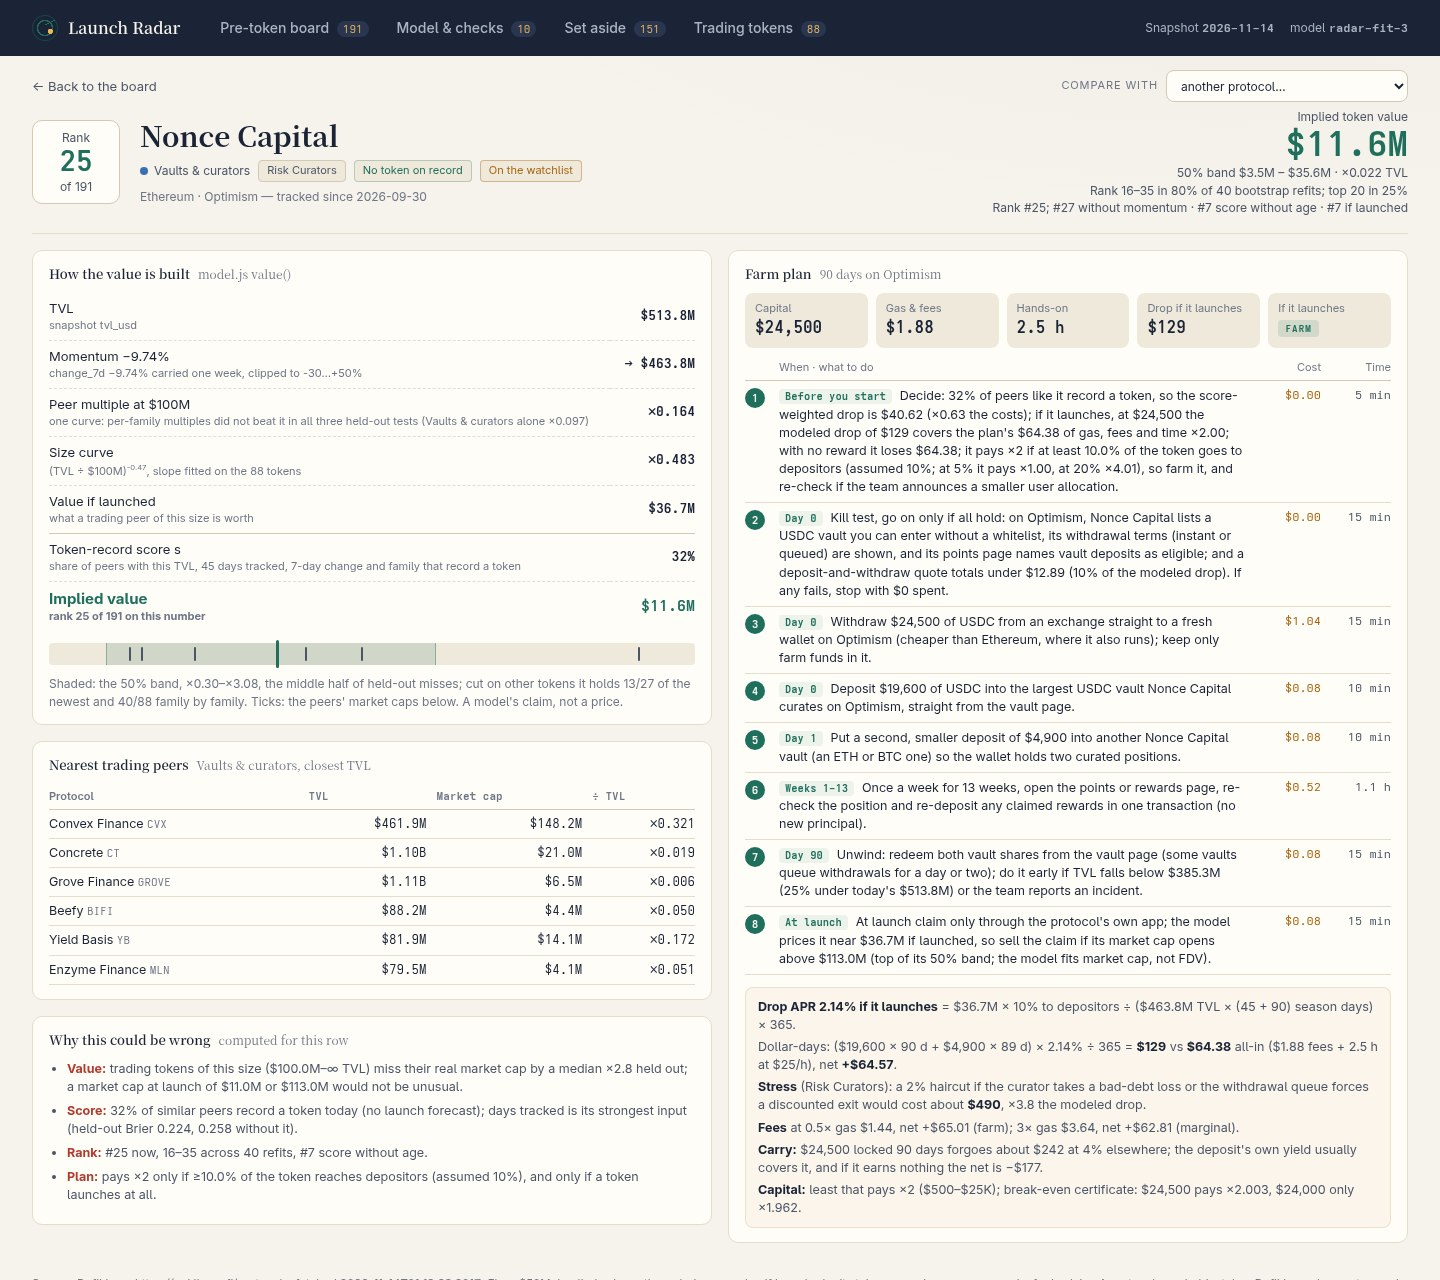
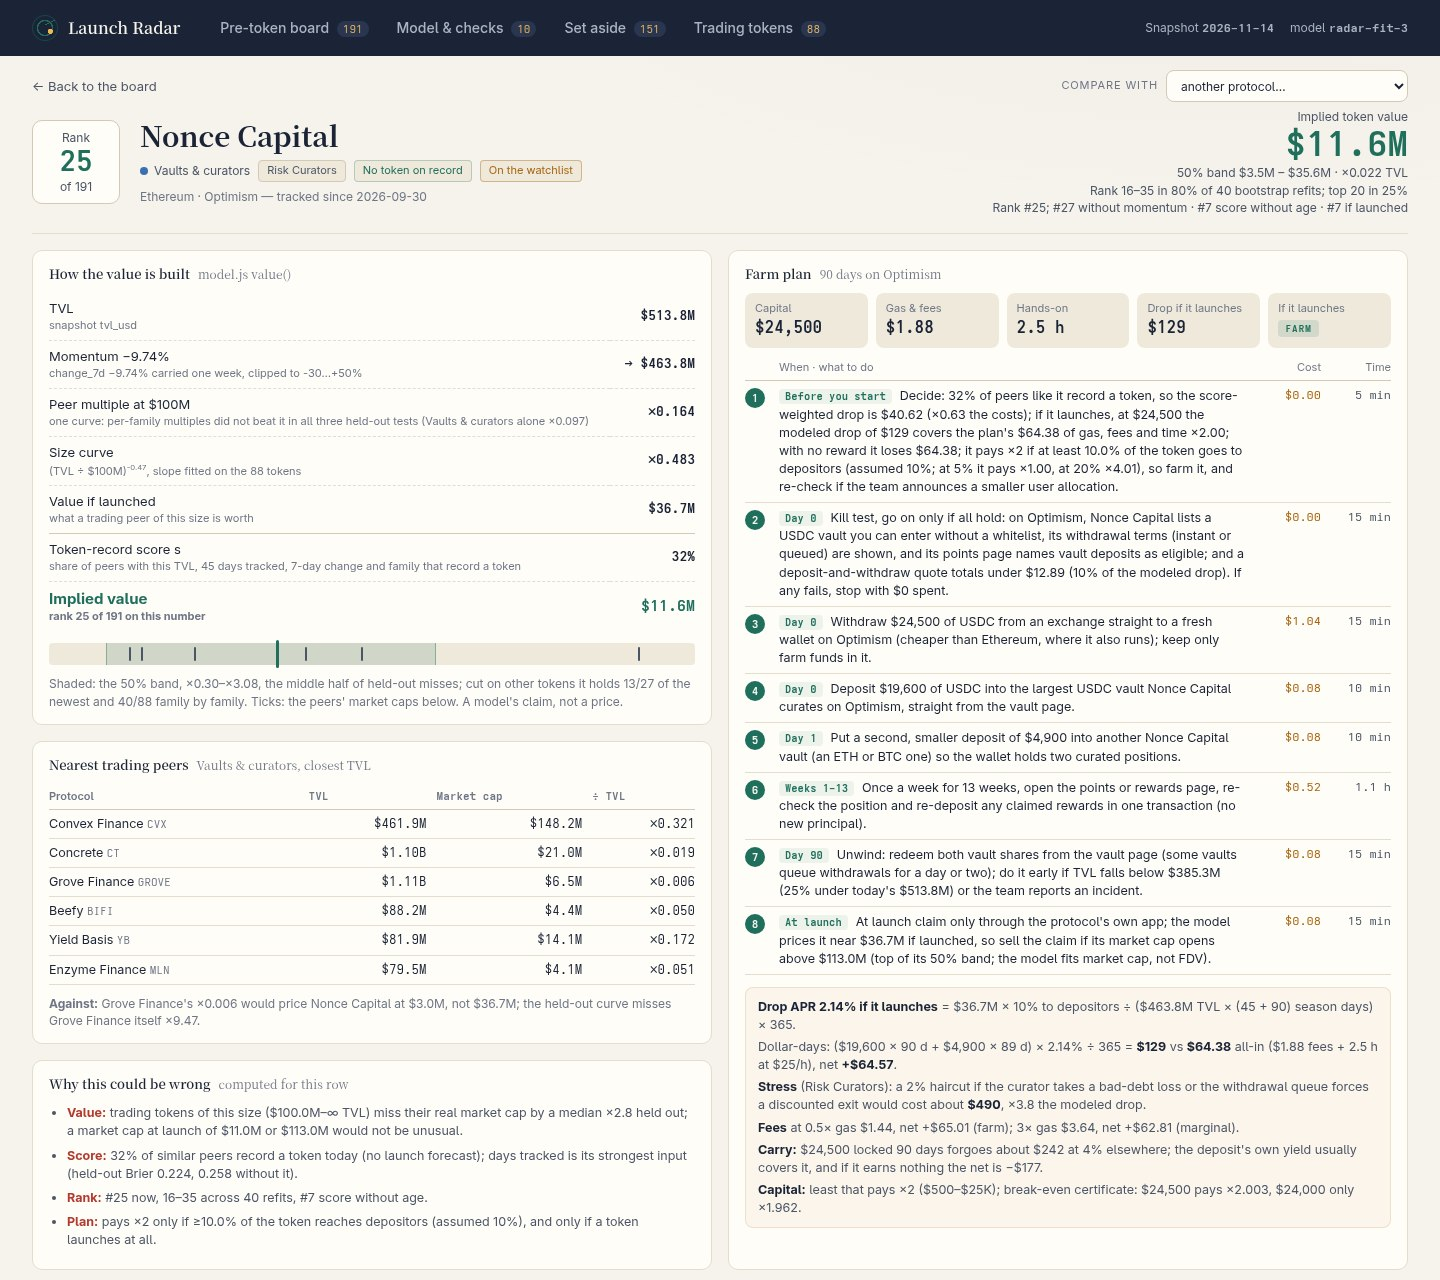
Contradicting peer: under the nearest peers, the one whose multiple would price the row furthest from its value, with the held-out curve's miss on that peer

Changed region(s): [[0.0312, 0.7812, 0.4688, 0.9688]]

diff --git a/dashboard/app.js b/dashboard/app.js
@@ -261,7 +261,7 @@
      <p class="note">Shaded: the 50% band, ×${fit.band_low.toFixed(2)}–×${fit.band_high.toFixed(2)}, the middle half of held-out misses; cut on other tokens it holds ${fit.band_wf[0]}/${fit.band_wf[1]} of the newest and ${fit.band_fam[0]}/${fit.band_fam[1]} family by family. Ticks: the peers' market caps below. A model's claim, not a price.</p>
     </section>
     <section class="card"><h2>Nearest trading peers <span>${esc(fam.label)}, closest TVL</span></h2>
-     ${tbl('mini', ['Protocol', '#TVL', '#Market cap', '#÷ TVL'], peers.map((x) => [`${esc(x.p.name)} <small>${esc(x.p.symbol || '')}</small>`, usd(x.tvl), usd(x.actual), mult(x.actual / x.tvl)]))}</section>
+     ${tbl('mini', ['Protocol', '#TVL', '#Market cap', '#÷ TVL'], peers.map((x) => [`${esc(x.p.name)} <small>${esc(x.p.symbol || '')}</small>`, usd(x.tvl), usd(x.actual), mult(x.actual / x.tvl)]))}${((x) => x ? `<p class="note"><b>Against:</b> ${esc(x.p.name)}'s ${mult(x.actual / x.tvl)} would price ${esc(p.name)} at ${usd(p.tvl_usd * x.actual / x.tvl)}, not ${usd(v.fitted)}; the held-out curve misses ${esc(x.p.name)} itself ${mult(Math.max(x.actual / x.loo, x.loo / x.actual))}.</p>` : '')(peers.slice().sort((a, b) => Math.abs(Math.log(p.tvl_usd * b.actual / b.tvl / v.fitted)) - Math.abs(Math.log(p.tvl_usd * a.actual / a.tvl / v.fitted)))[0])}</section>
     <section class="card risk"><h2>Why this could be wrong <span>computed for this row</span></h2><ul>${redTeam(r).map((t) => `<li>${t}</li>`).join('')}</ul></section>
    </div>
    <section class="card planc"><h2>Farm plan <span>${pl.days} days on ${esc(pl.chain)}</span></h2>
